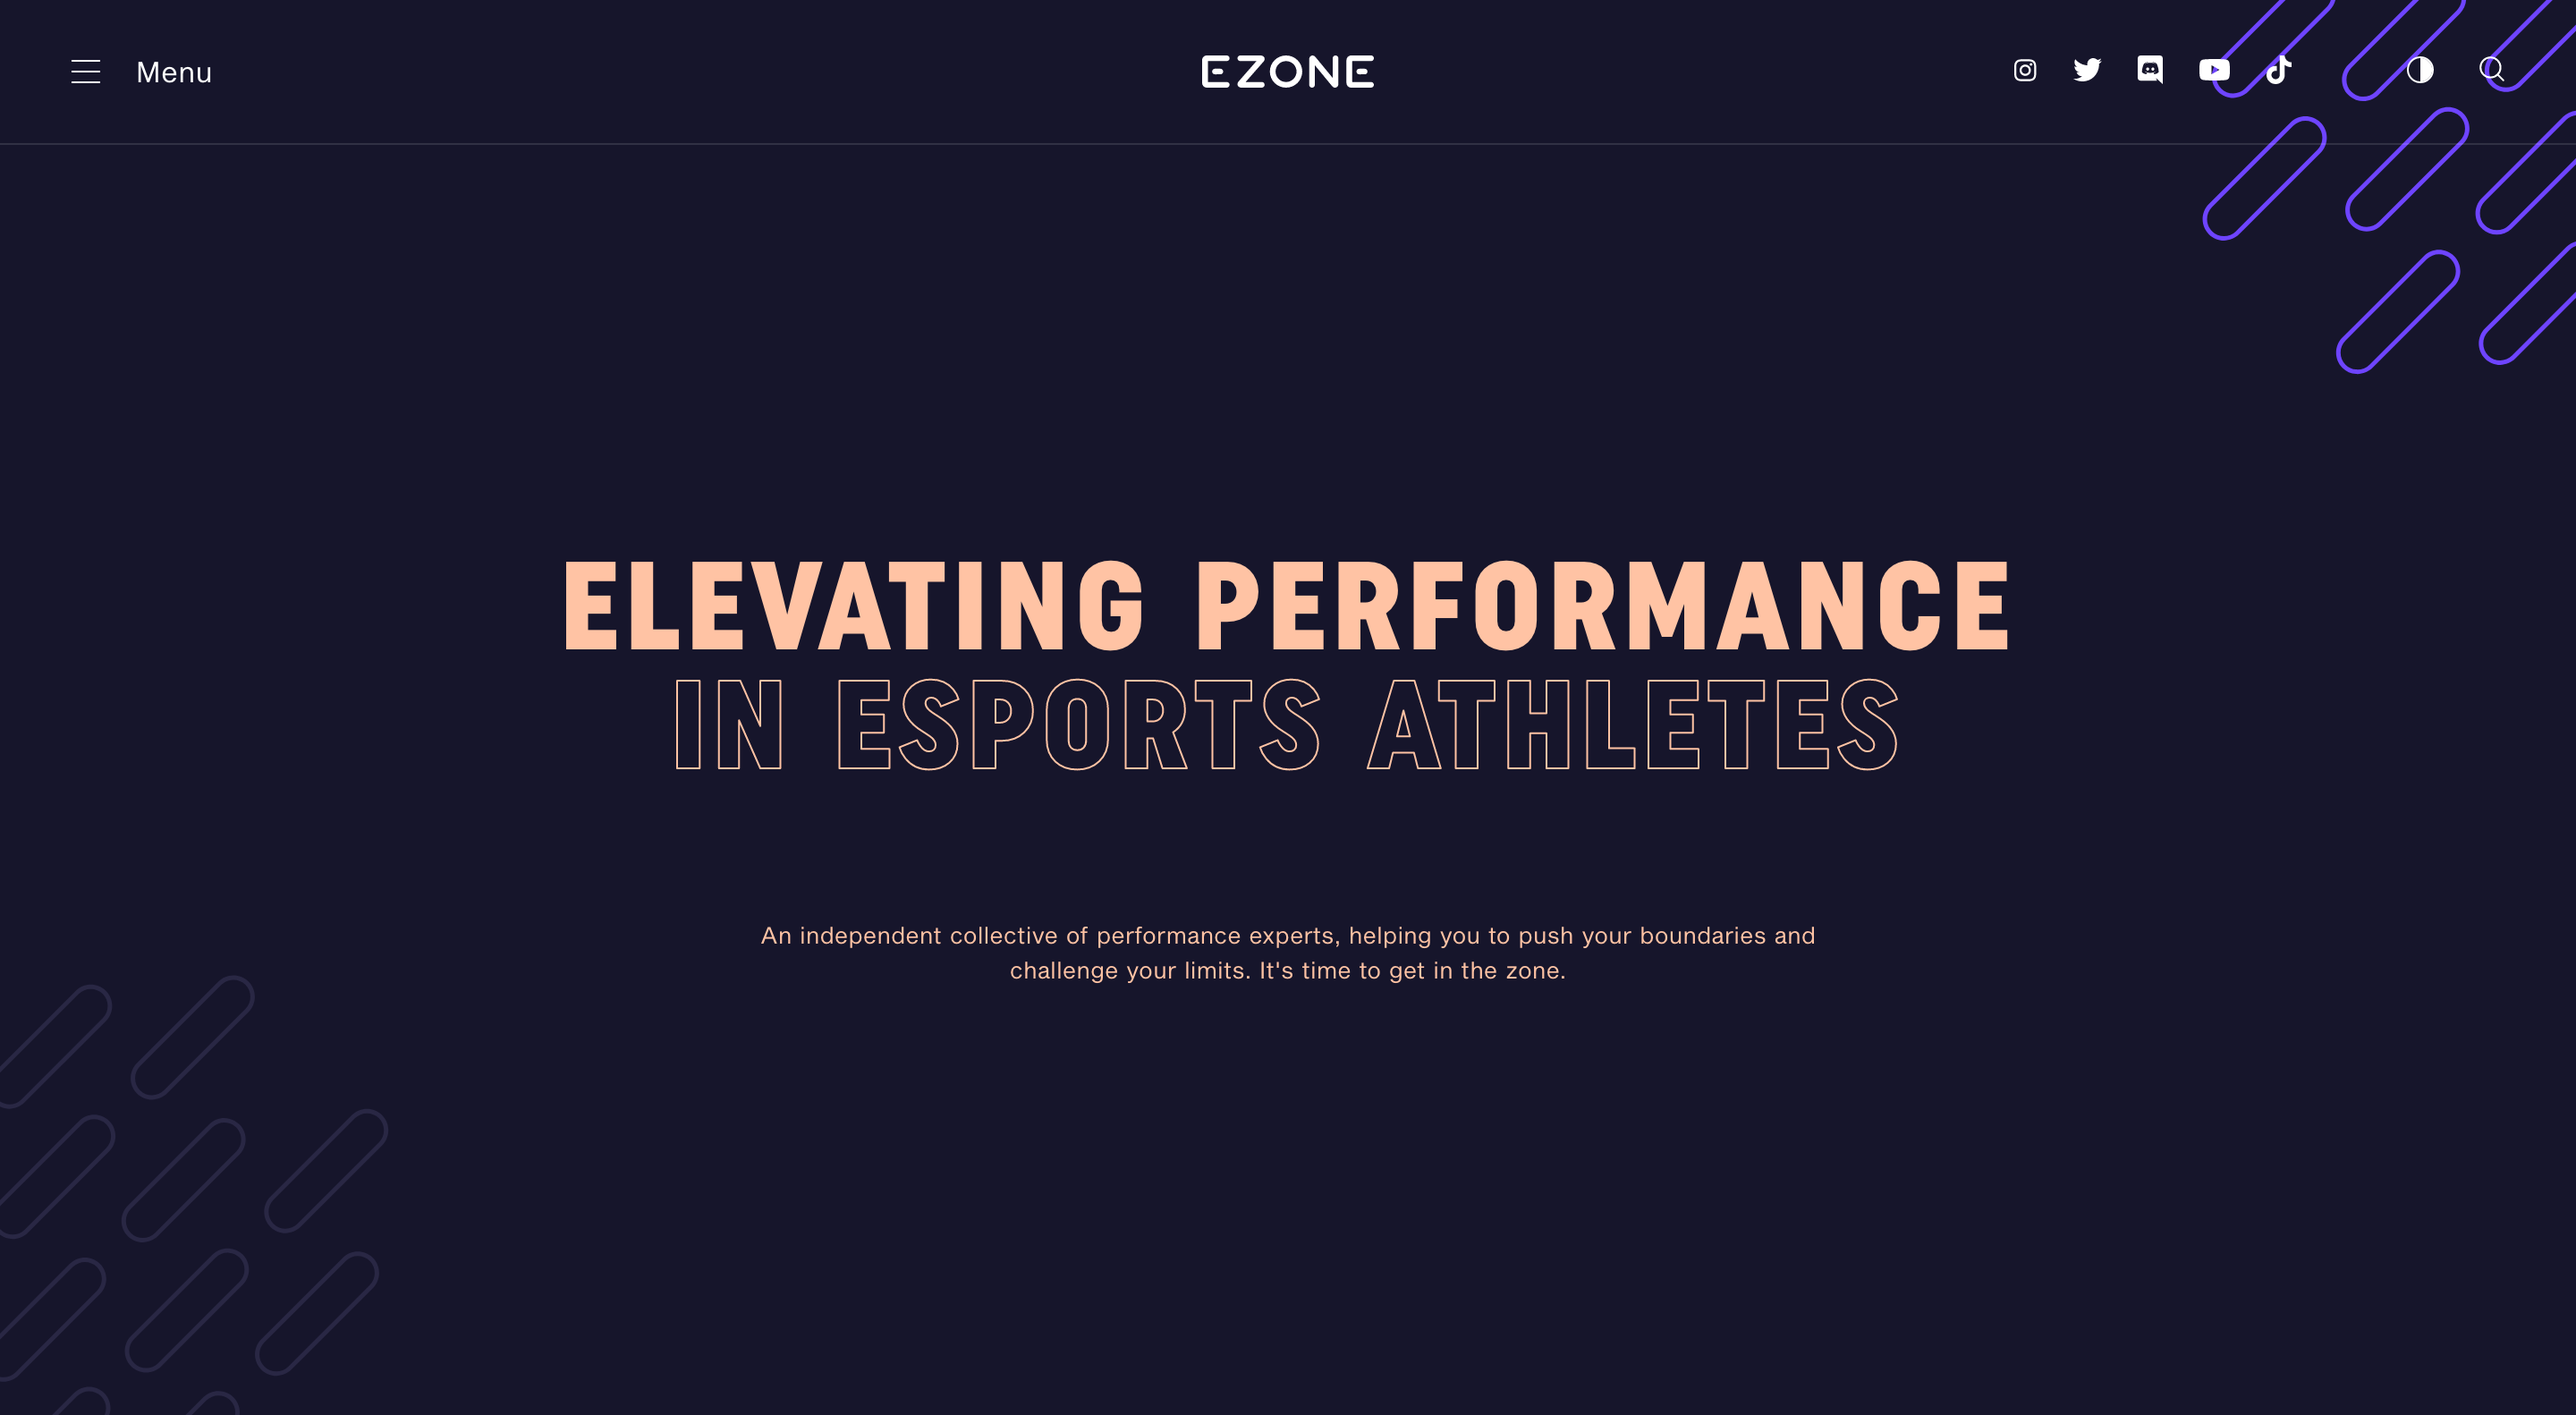
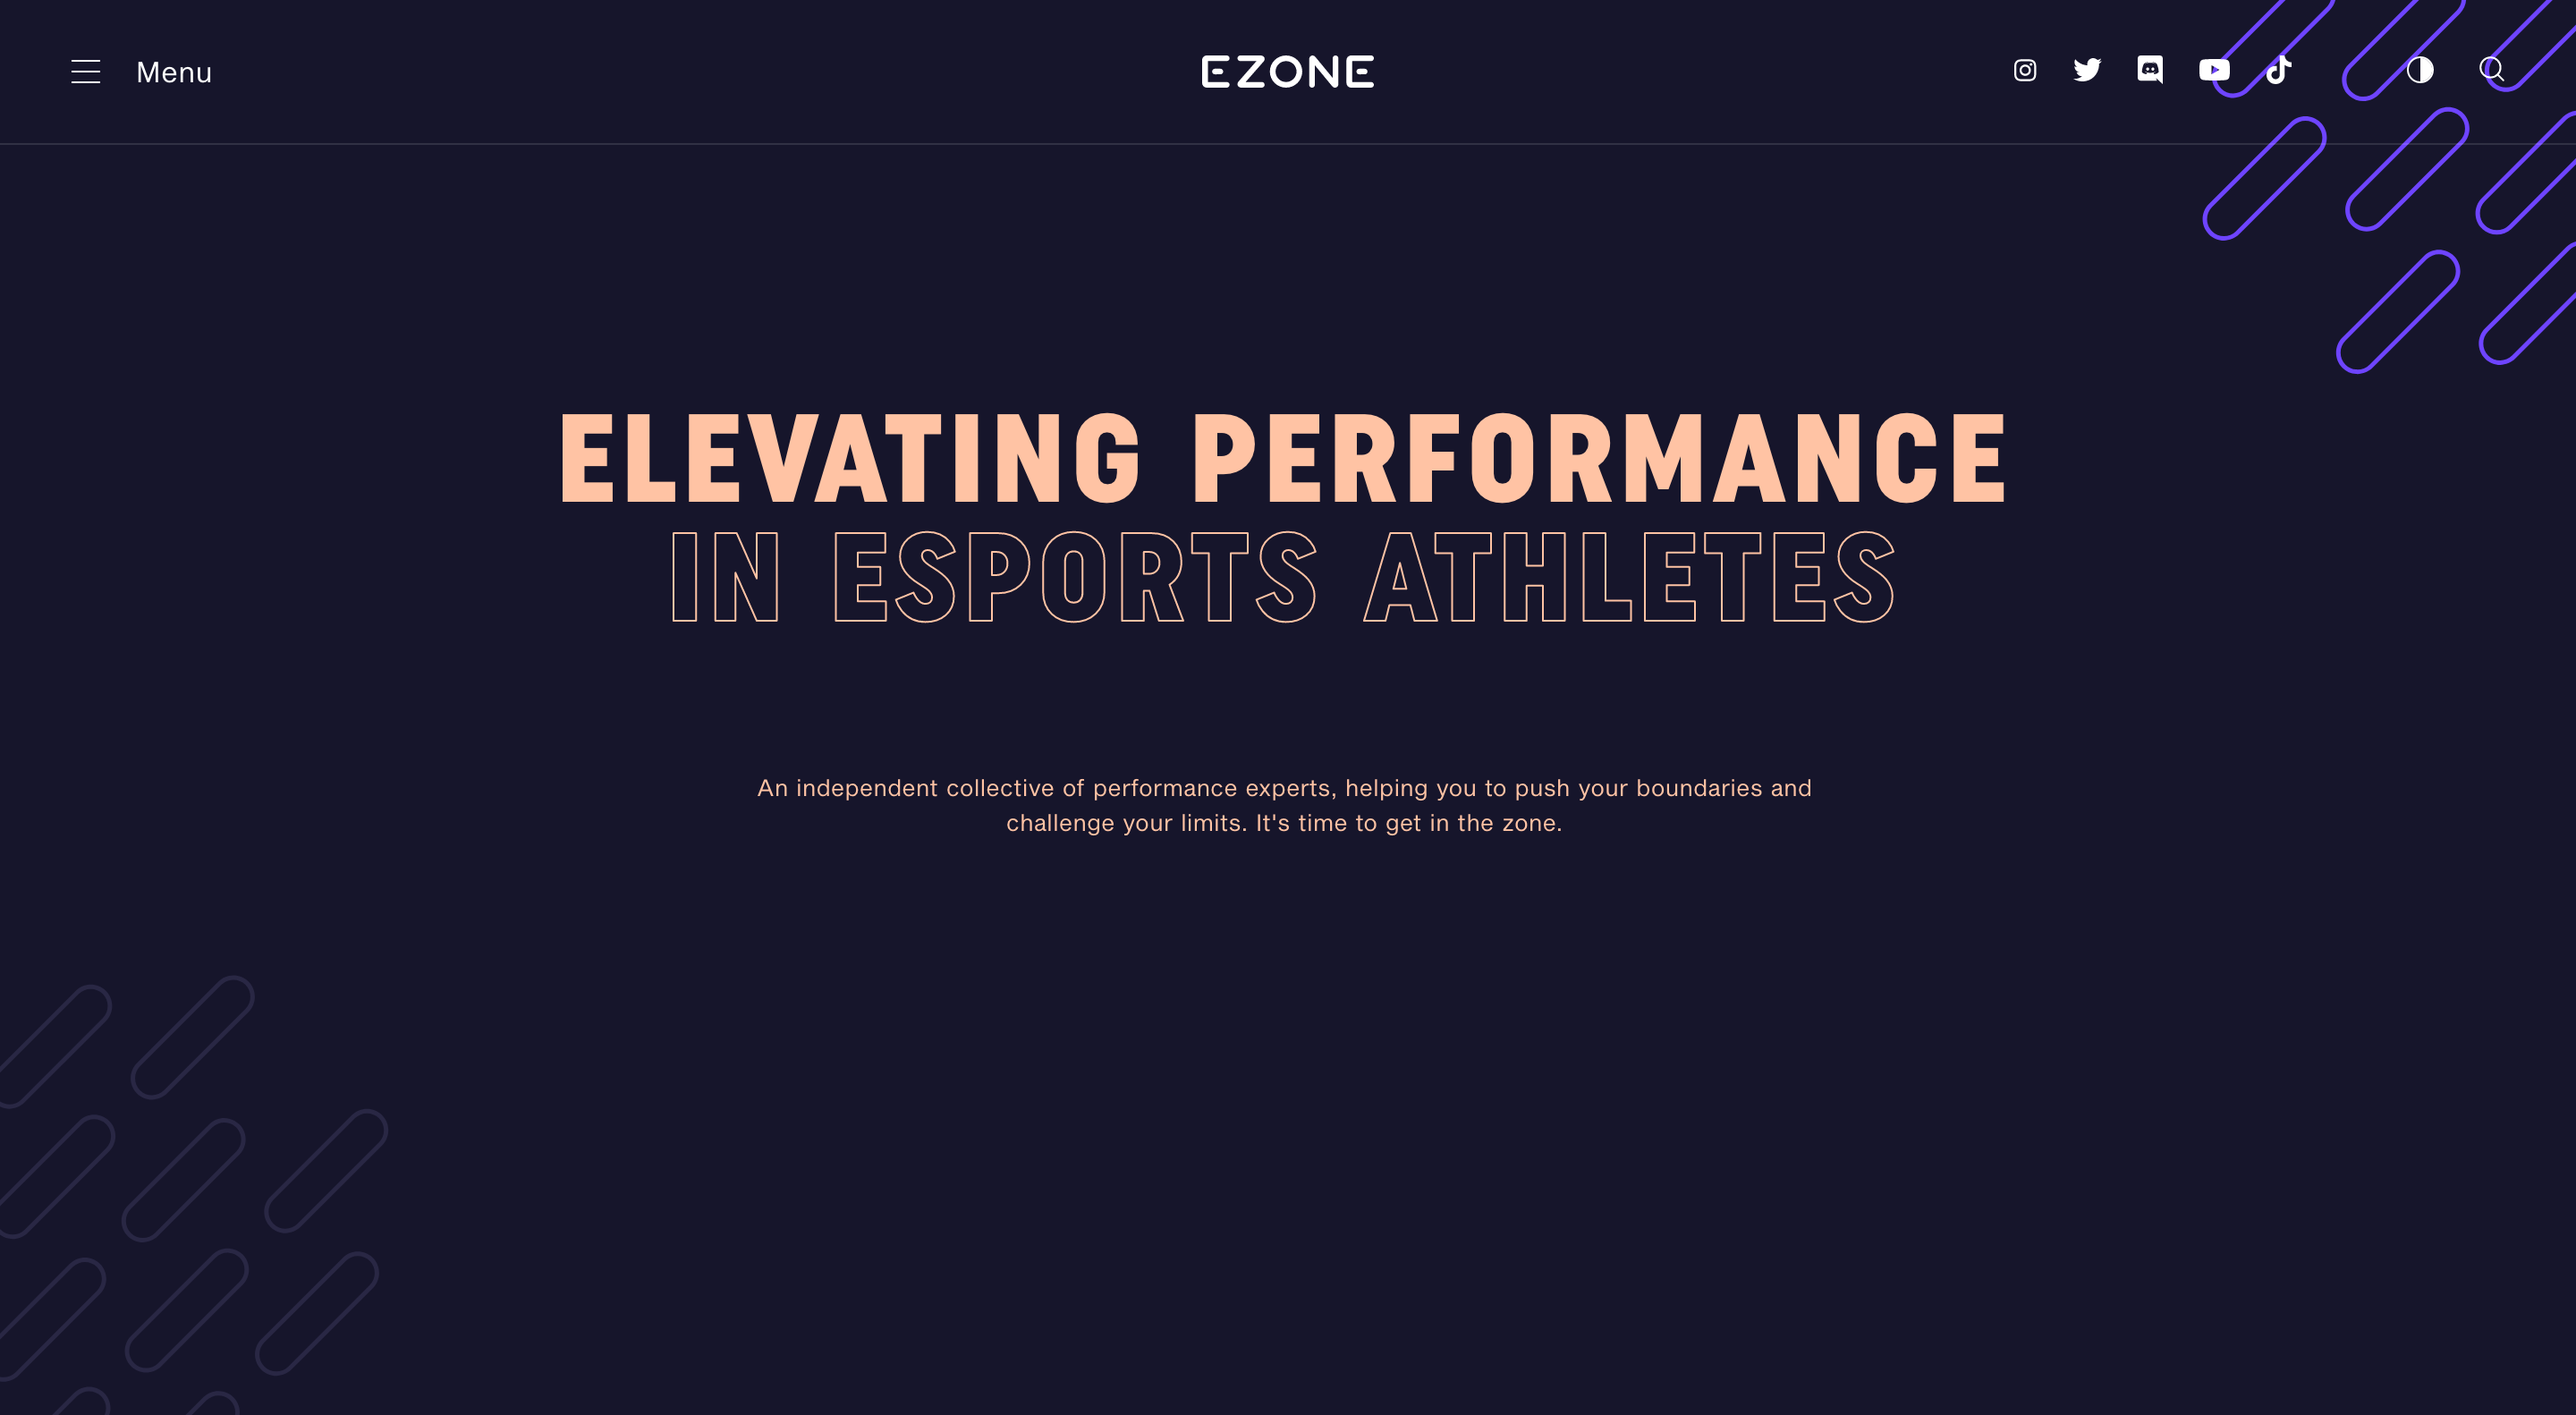
landingpage fixed

Changed region(s): [[0.2188, 0.2788, 0.7812, 0.4646], [0.2812, 0.4956, 0.7188, 0.5885], [0.3125, 0.6504, 0.6875, 0.7124]]

diff --git a/sass/layout/_landingpage.scss b/sass/layout/_landingpage.scss
@@ -21,7 +21,7 @@
     background-image: url(/img/1440vw.png);
     background-size: cover;
     button {
-      top: 90%;
+      top: 70%;
     }
   }
 }
